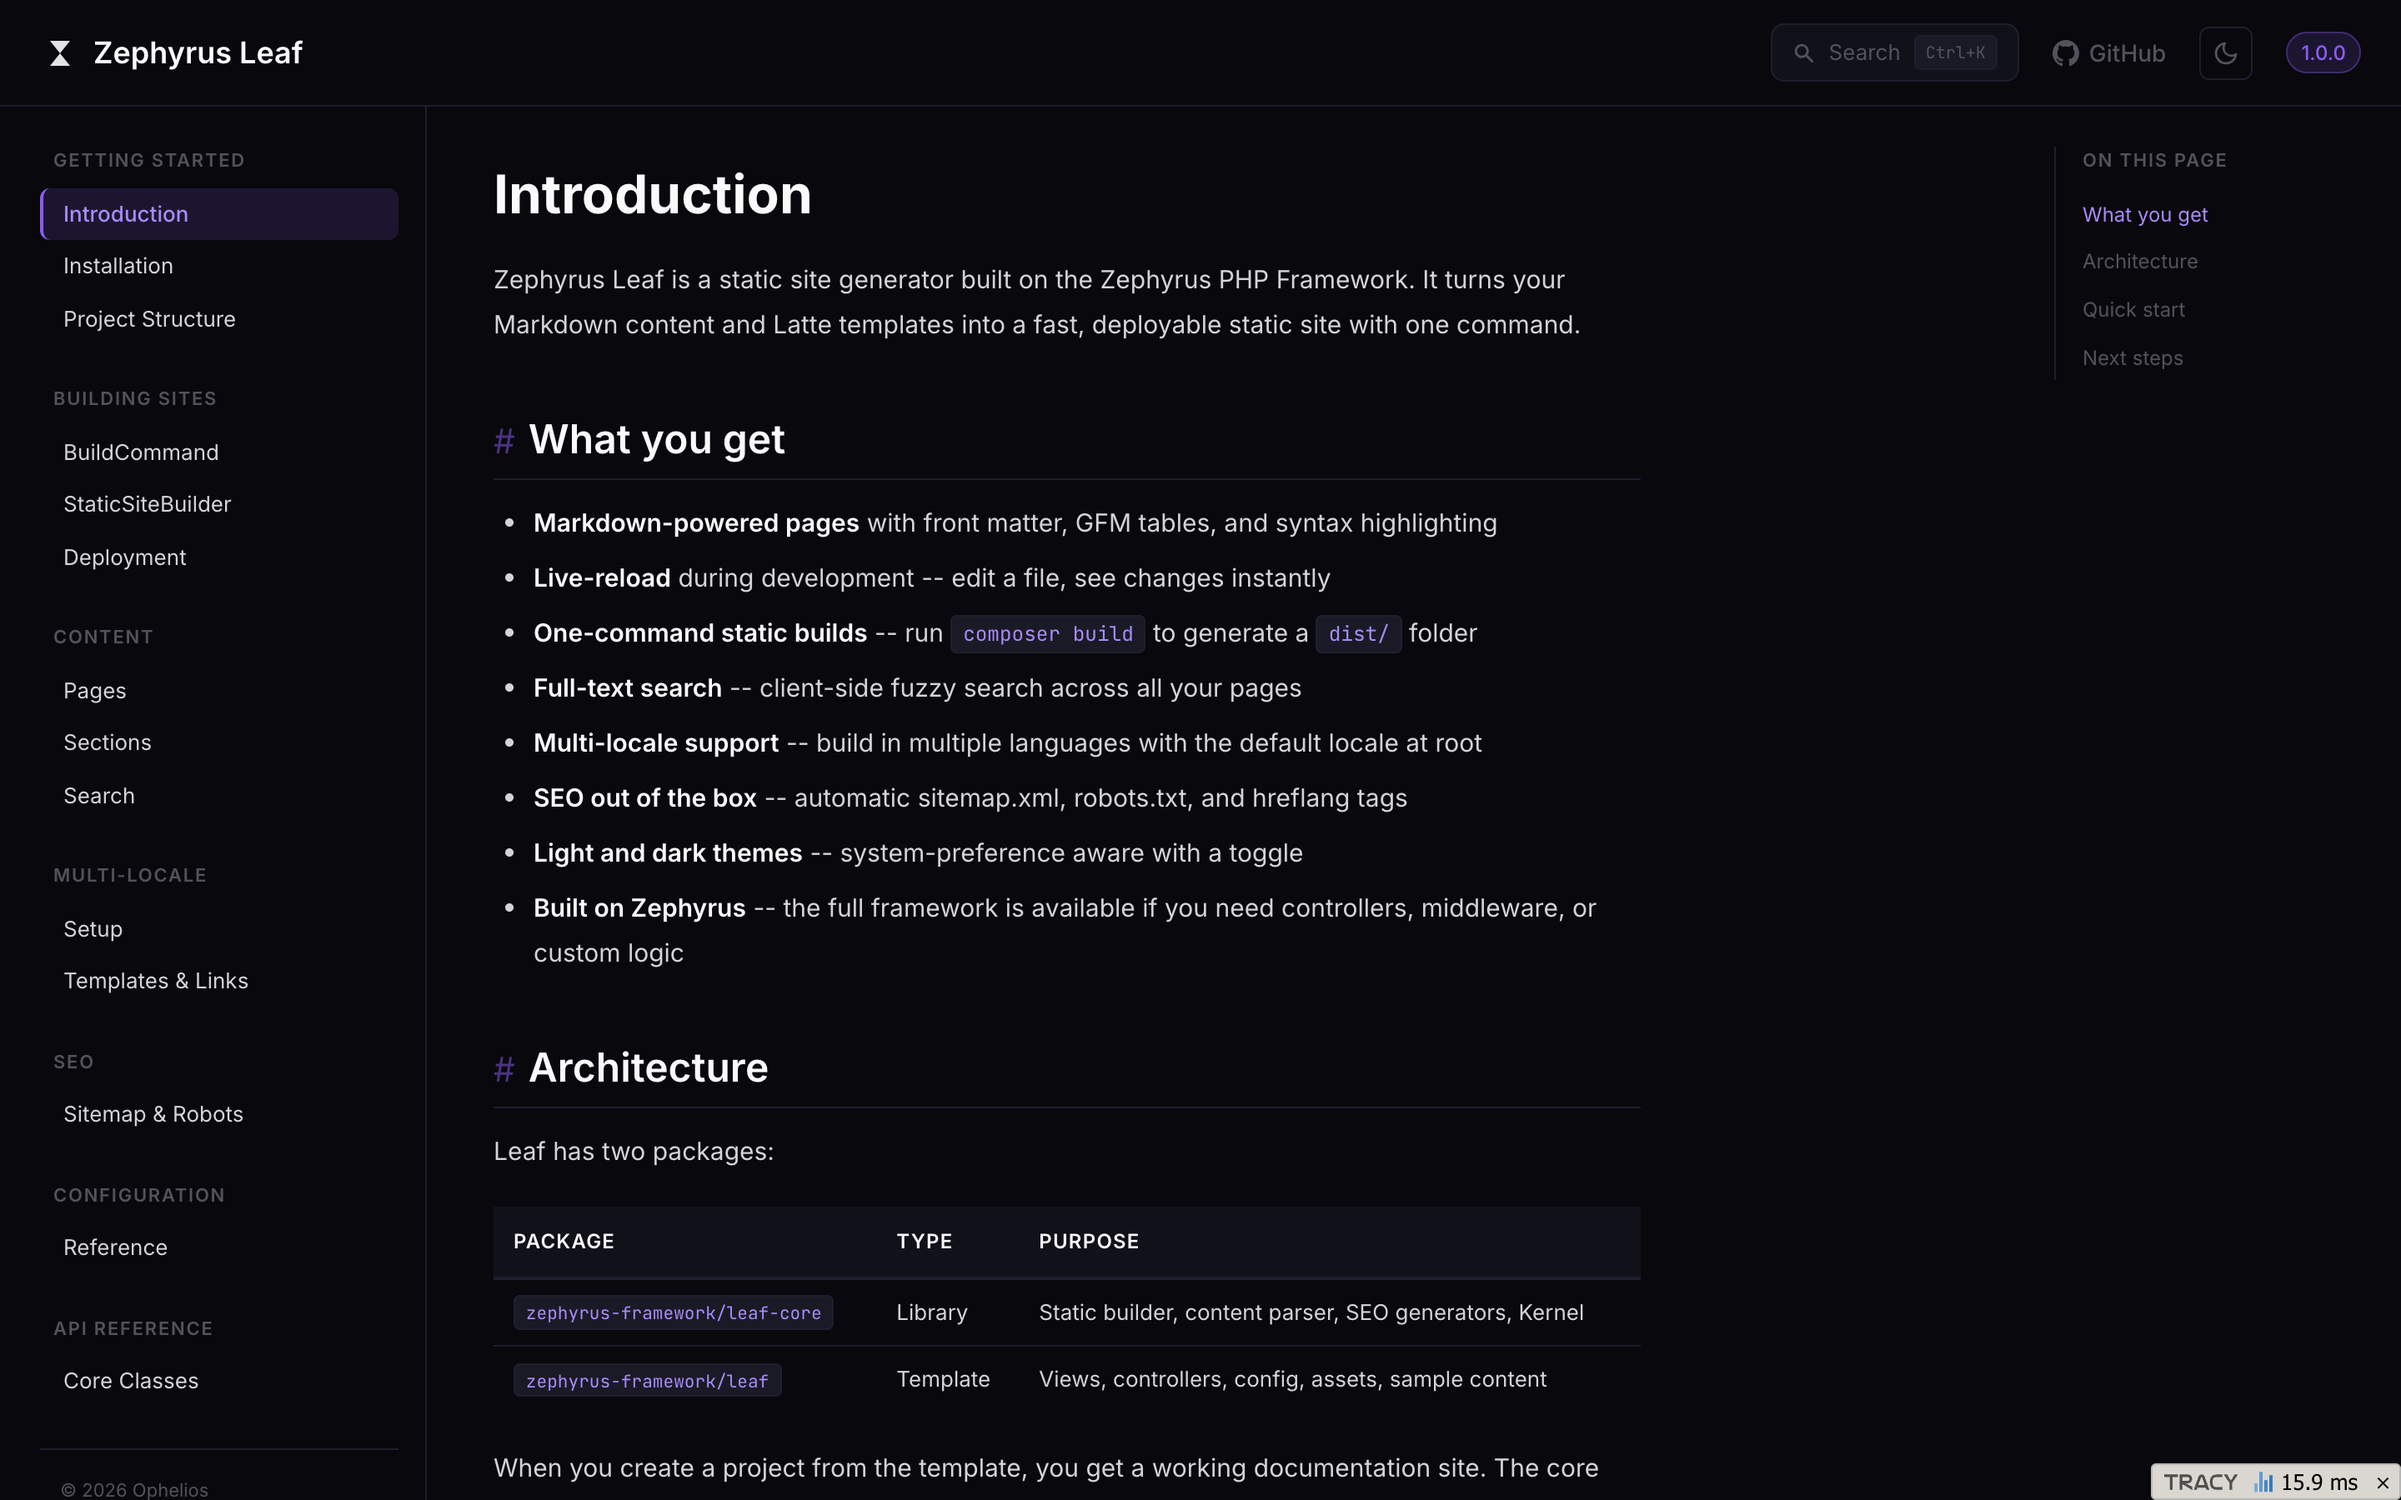
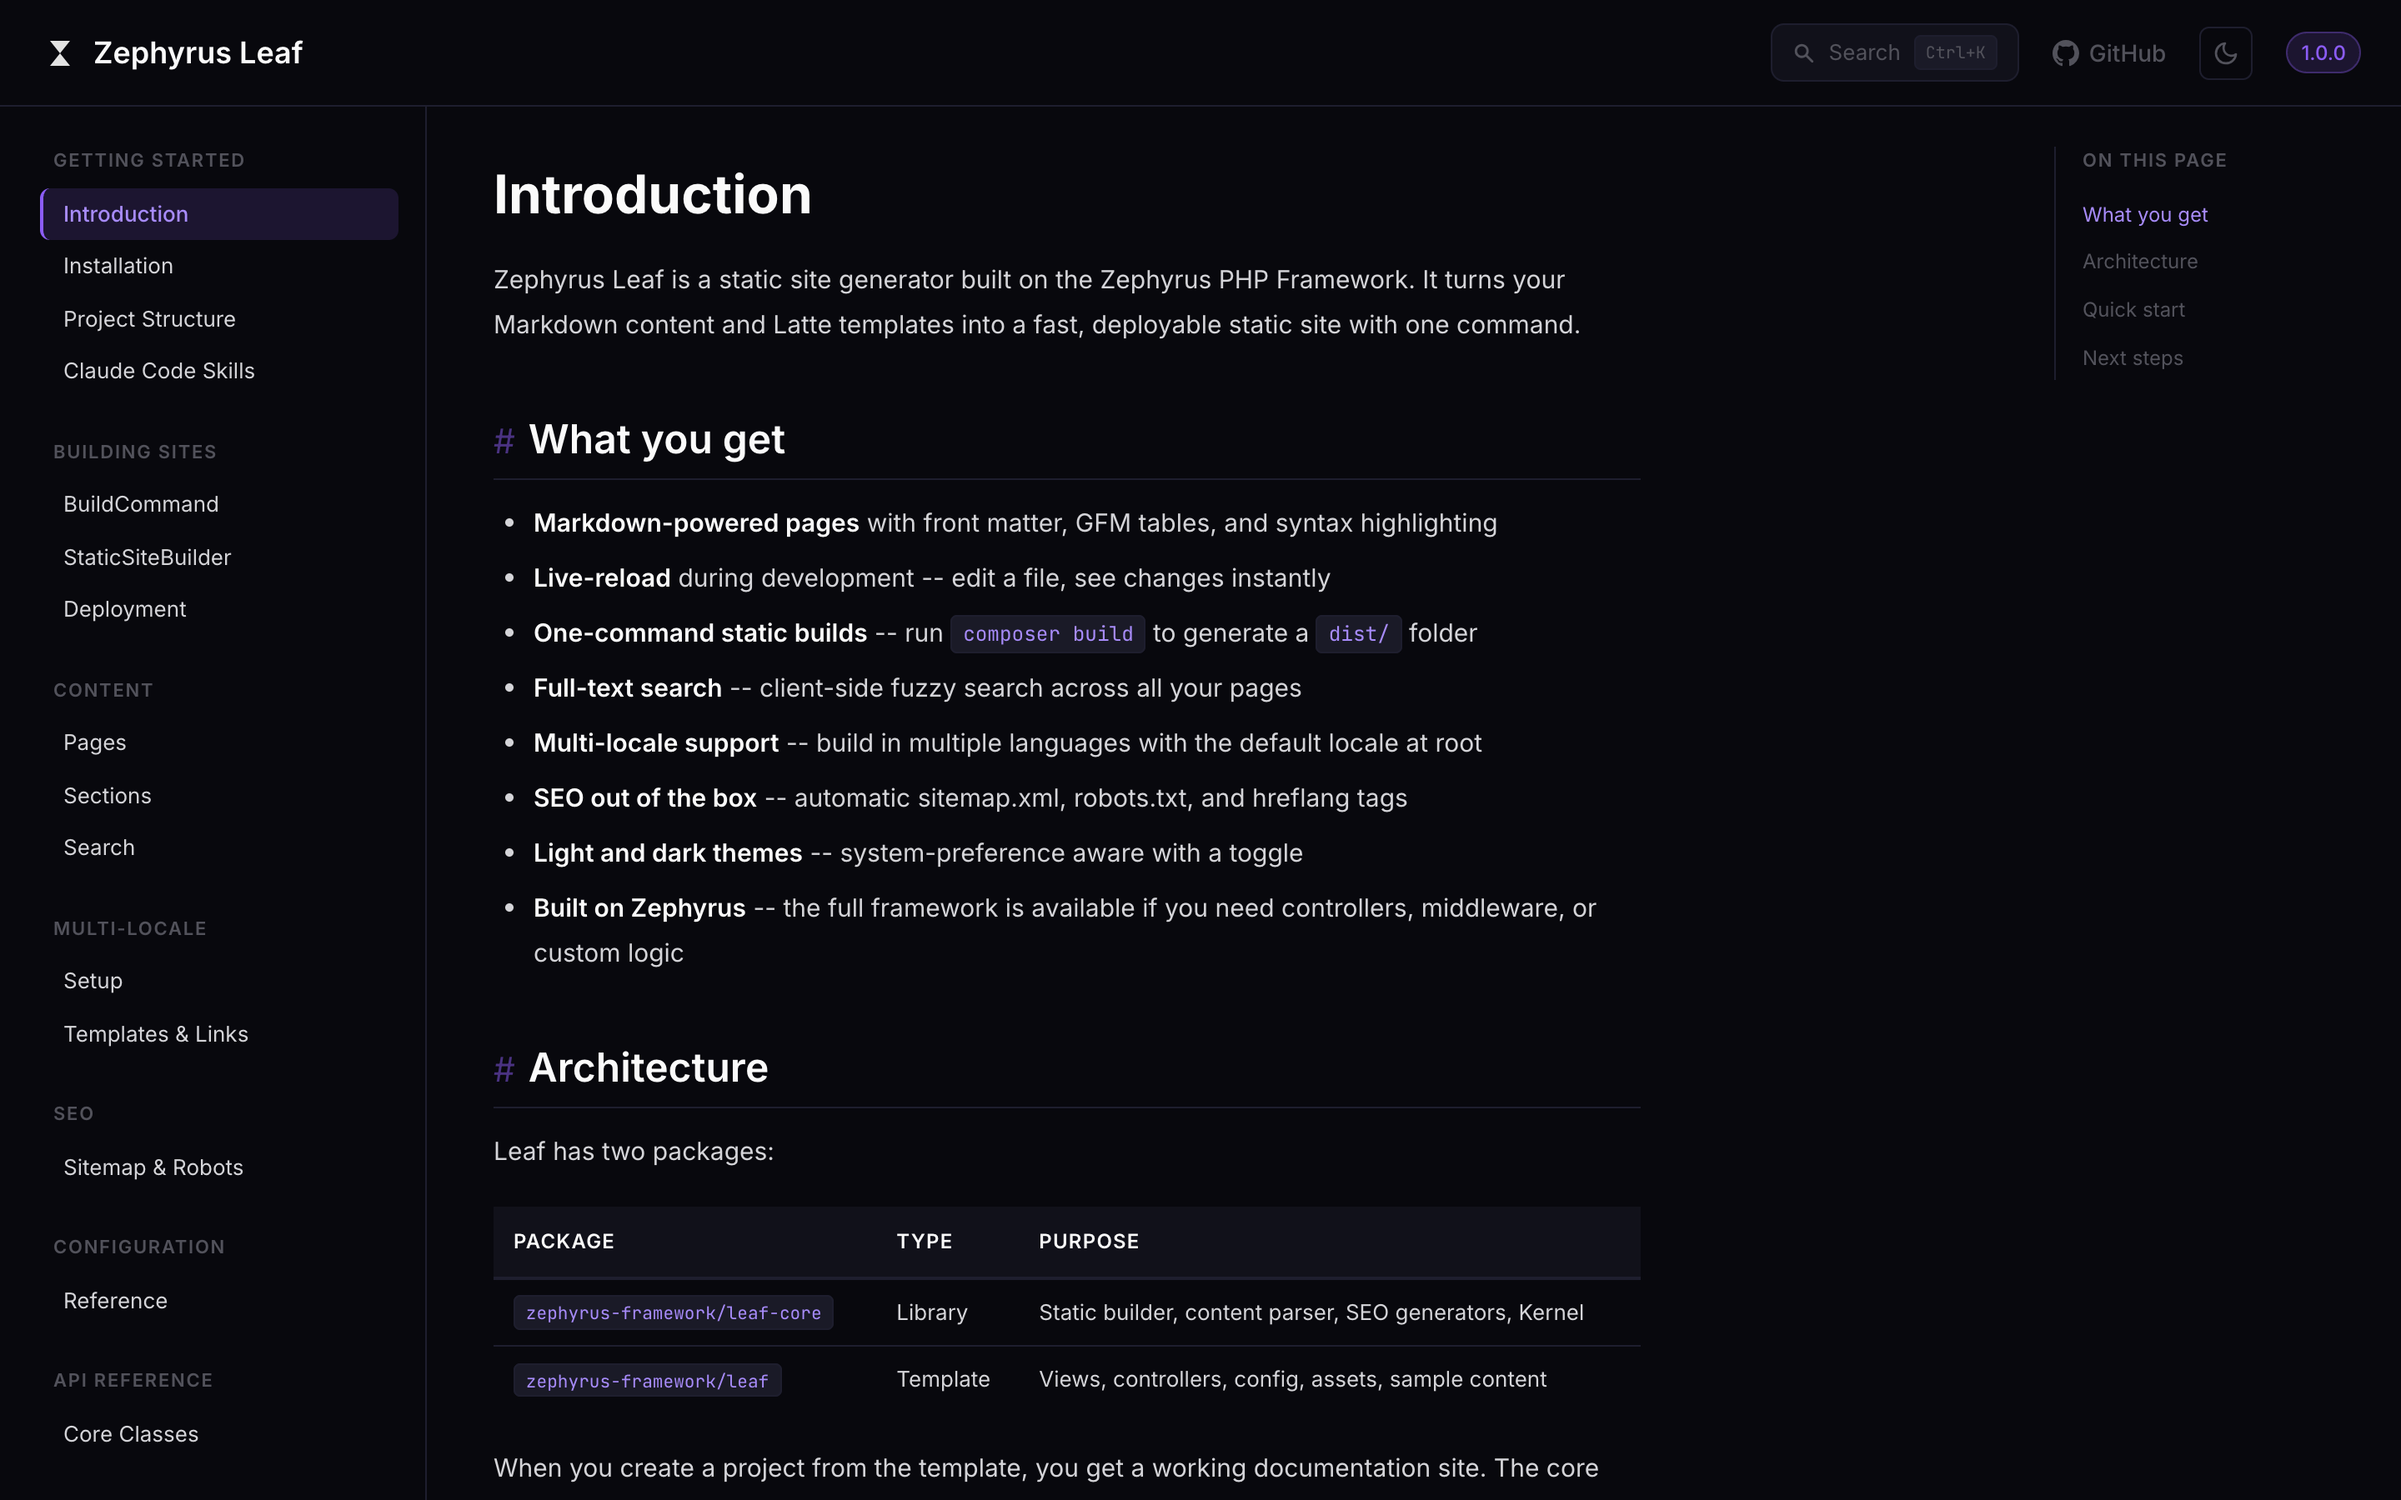
fix: hero contrast, nav island behavior, grid texture, screenshot glass border

diff --git a/public/assets/css/landing.css b/public/assets/css/landing.css
@@ -3,38 +3,48 @@
    ============================================================ */
 
 /* ── Landing Nav ─────────────────────────────────────────── */
+.landing-nav-spacer {
+    height: 4rem;
+}
+
 .landing-nav {
     position: fixed;
-    top: 1rem;
+    top: 0;
     left: 0;
     right: 0;
     z-index: 100;
-    display: flex;
-    justify-content: center;
     pointer-events: none;
+    transition: all 0.4s cubic-bezier(0.4, 0, 0.2, 1);
 }
 
 .landing-nav-inner {
     display: flex;
     align-items: center;
     gap: 1.5rem;
-    padding: 0.6rem 1.25rem;
-    background: var(--nav-bg);
-    backdrop-filter: blur(16px);
-    -webkit-backdrop-filter: blur(16px);
-    border: 1px solid var(--border);
-    border-radius: 9999px;
+    padding: 0 2rem;
+    height: 4rem;
+    max-width: 90rem;
+    margin: 0 auto;
     pointer-events: auto;
     transition: all 0.4s cubic-bezier(0.4, 0, 0.2, 1);
-    max-width: 90rem;
+}
+
+/* Scrolled: becomes floating island, left-aligned */
+.landing-nav.scrolled {
+    top: 0.75rem;
+    left: 1rem;
+    right: auto;
 }
 
 .landing-nav.scrolled .landing-nav-inner {
-    padding: 0.45rem 1rem;
-    gap: 1rem;
-    max-width: 28rem;
-    justify-content: flex-start;
+    background: var(--nav-bg);
+    backdrop-filter: blur(20px);
+    -webkit-backdrop-filter: blur(20px);
+    border: 1px solid var(--border);
     border-radius: 9999px;
+    padding: 0.4rem 0.5rem 0.4rem 1rem;
+    gap: 0.75rem;
+    height: auto;
 }
 
 .landing-nav-brand {
@@ -53,23 +63,29 @@
     display: flex;
     align-items: center;
     gap: 1.25rem;
-    transition: all 0.3s ease;
+    transition: opacity 0.3s ease, max-width 0.3s ease;
+    overflow: hidden;
 }
 
 .landing-nav-links a {
-    color: var(--text-muted);
+    color: var(--text-bright);
     font-size: 0.8125rem;
     font-weight: 500;
     text-decoration: none;
     transition: color 0.15s ease;
     white-space: nowrap;
+    opacity: 0.7;
 }
 .landing-nav-links a:hover {
-    color: var(--text-bright);
+    opacity: 1;
 }
 
-.landing-nav.scrolled .landing-nav-links {
-    display: none;
+.landing-nav.scrolled .landing-nav-links a {
+    color: var(--text-muted);
+    opacity: 1;
+}
+.landing-nav.scrolled .landing-nav-links a:hover {
+    color: var(--text-bright);
 }
 
 .landing-nav-right {
@@ -97,10 +113,6 @@
     color: #fff;
 }
 
-.landing-nav.scrolled .landing-nav-cta {
-    display: none;
-}
-
 /* ── Hero ────────────────────────────────────────────────── */
 .hero-section {
     position: relative;
@@ -109,7 +121,7 @@
     flex-direction: column;
     align-items: center;
     justify-content: flex-start;
-    padding-top: 8rem;
+    padding-top: 6rem;
     overflow: hidden;
 }
 
@@ -139,19 +151,36 @@
     :root:not([data-theme="light"]) .hero-img-dark { opacity: 1; }
 }
 
+/* Grid texture overlay */
+.hero-grid {
+    position: absolute;
+    inset: 0;
+    z-index: 1;
+    background:
+        repeating-linear-gradient(0deg, rgba(255,255,255,0.03) 0px, rgba(255,255,255,0.03) 1px, transparent 1px, transparent 60px),
+        repeating-linear-gradient(90deg, rgba(255,255,255,0.03) 0px, rgba(255,255,255,0.03) 1px, transparent 1px, transparent 60px);
+    pointer-events: none;
+}
+
+[data-theme="light"] .hero-grid {
+    background:
+        repeating-linear-gradient(0deg, rgba(0,0,0,0.03) 0px, rgba(0,0,0,0.03) 1px, transparent 1px, transparent 60px),
+        repeating-linear-gradient(90deg, rgba(0,0,0,0.03) 0px, rgba(0,0,0,0.03) 1px, transparent 1px, transparent 60px);
+}
+
 .hero-fade {
     position: absolute;
     bottom: 0;
     left: 0;
     right: 0;
-    height: 60%;
+    height: 65%;
     background: linear-gradient(to bottom, transparent 0%, var(--bg-deep) 100%);
-    z-index: 1;
+    z-index: 2;
 }
 
 .hero-content {
     position: relative;
-    z-index: 2;
+    z-index: 3;
     text-align: center;
     max-width: 48rem;
     padding: 0 1.5rem;
@@ -161,34 +190,59 @@
 .hero-badge {
     display: inline-block;
     padding: 0.3rem 0.85rem;
-    background: var(--accent-glow);
-    border: 1px solid var(--border-accent);
+    background: rgba(139, 92, 246, 0.2);
+    backdrop-filter: blur(8px);
+    -webkit-backdrop-filter: blur(8px);
+    border: 1px solid rgba(139, 92, 246, 0.3);
     border-radius: 9999px;
     font-size: 0.75rem;
-    font-weight: 500;
-    color: var(--accent);
+    font-weight: 600;
+    color: var(--text-bright);
     letter-spacing: 0.03em;
     margin-bottom: 1.5rem;
 }
 
 .hero-title {
     font-family: var(--font-body);
-    font-size: clamp(2.5rem, 6vw, 4.5rem);
+    font-size: clamp(2.75rem, 7vw, 5rem);
     font-weight: 800;
-    line-height: 1.08;
+    line-height: 1.05;
     letter-spacing: -0.03em;
-    color: var(--text-bright);
+    color: #fff;
     margin: 0 0 1.25rem;
+    text-shadow: 0 2px 20px rgba(0,0,0,0.3);
+}
+
+[data-theme="light"] .hero-title {
+    color: #18181b;
+    text-shadow: 0 1px 10px rgba(255,255,255,0.4);
 }
 
 .hero-subtitle {
     font-size: 1.1rem;
-    color: var(--text-muted);
+    color: rgba(255,255,255,0.8);
     line-height: 1.7;
     margin: 0 0 2rem;
     max-width: 36rem;
     margin-left: auto;
     margin-right: auto;
+    text-shadow: 0 1px 8px rgba(0,0,0,0.3);
+}
+
+[data-theme="light"] .hero-subtitle {
+    color: rgba(0,0,0,0.65);
+    text-shadow: none;
+}
+
+@media (prefers-color-scheme: light) {
+    :root:not([data-theme="dark"]) .hero-title {
+        color: #18181b;
+        text-shadow: 0 1px 10px rgba(255,255,255,0.4);
+    }
+    :root:not([data-theme="dark"]) .hero-subtitle {
+        color: rgba(0,0,0,0.65);
+        text-shadow: none;
+    }
 }
 
 .hero-actions {
@@ -214,29 +268,47 @@
 .hero-btn-primary {
     background: var(--accent);
     color: #fff;
+    box-shadow: 0 4px 15px rgba(139, 92, 246, 0.3);
 }
 .hero-btn-primary:hover {
     background: var(--accent-light);
     color: #fff;
     transform: translateY(-1px);
+    box-shadow: 0 6px 20px rgba(139, 92, 246, 0.4);
 }
 
 .hero-install {
     display: inline-flex;
     align-items: center;
     padding: 0.55rem 1rem;
-    background: var(--bg-surface);
-    border: 1px solid var(--border);
+    background: rgba(0,0,0,0.3);
+    backdrop-filter: blur(8px);
+    -webkit-backdrop-filter: blur(8px);
+    border: 1px solid rgba(255,255,255,0.15);
     border-radius: 0.5rem;
     font-family: var(--font-mono);
     font-size: 0.8125rem;
-    color: var(--text);
+    color: rgba(255,255,255,0.9);
 }
 
-/* Screenshot */
+[data-theme="light"] .hero-install {
+    background: rgba(255,255,255,0.5);
+    border-color: rgba(0,0,0,0.1);
+    color: rgba(0,0,0,0.7);
+}
+
+@media (prefers-color-scheme: light) {
+    :root:not([data-theme="dark"]) .hero-install {
+        background: rgba(255,255,255,0.5);
+        border-color: rgba(0,0,0,0.1);
+        color: rgba(0,0,0,0.7);
+    }
+}
+
+/* Screenshot - frosted glass border like Mintlify */
 .hero-screenshot-wrap {
     position: relative;
-    z-index: 2;
+    z-index: 3;
     max-width: 56rem;
     margin: 3rem auto 0;
     padding: 0 1.5rem;
@@ -247,8 +319,35 @@
     position: relative;
     border-radius: 0.75rem;
     overflow: hidden;
-    border: 1px solid var(--border);
-    box-shadow: 0 25px 60px rgba(0, 0, 0, 0.3);
+    border: 1px solid rgba(255,255,255,0.15);
+    box-shadow:
+        0 0 0 1px rgba(255,255,255,0.05),
+        0 25px 60px rgba(0, 0, 0, 0.4),
+        0 0 40px rgba(139, 92, 246, 0.08);
+    background: rgba(255,255,255,0.05);
+    padding: 4px;
+    backdrop-filter: blur(2px);
+    -webkit-backdrop-filter: blur(2px);
+}
+
+[data-theme="light"] .hero-screenshot {
+    border-color: rgba(0,0,0,0.08);
+    box-shadow:
+        0 0 0 1px rgba(0,0,0,0.03),
+        0 25px 60px rgba(0, 0, 0, 0.15),
+        0 0 40px rgba(139, 92, 246, 0.05);
+    background: rgba(255,255,255,0.4);
+}
+
+@media (prefers-color-scheme: light) {
+    :root:not([data-theme="dark"]) .hero-screenshot {
+        border-color: rgba(0,0,0,0.08);
+        box-shadow:
+            0 0 0 1px rgba(0,0,0,0.03),
+            0 25px 60px rgba(0, 0, 0, 0.15),
+            0 0 40px rgba(139, 92, 246, 0.05);
+        background: rgba(255,255,255,0.4);
+    }
 }
 
 .hero-screenshot img {
@@ -256,17 +355,18 @@
     width: 100%;
     height: auto;
     transition: opacity 0.5s ease;
+    border-radius: 0.5rem;
 }
 
 .hero-ss-light { opacity: 1; position: relative; }
-.hero-ss-dark { opacity: 0; position: absolute; inset: 0; }
+.hero-ss-dark { opacity: 0; position: absolute; inset: 4px; }
 
 [data-theme="dark"] .hero-ss-light { opacity: 0; }
 [data-theme="dark"] .hero-ss-dark { opacity: 1; position: relative; }
-[data-theme="dark"] .hero-ss-light { position: absolute; inset: 0; }
+[data-theme="dark"] .hero-ss-light { position: absolute; inset: 4px; }
 
 @media (prefers-color-scheme: dark) {
-    :root:not([data-theme="light"]) .hero-ss-light { opacity: 0; position: absolute; inset: 0; }
+    :root:not([data-theme="light"]) .hero-ss-light { opacity: 0; position: absolute; inset: 4px; }
     :root:not([data-theme="light"]) .hero-ss-dark { opacity: 1; position: relative; }
 }
 
@@ -518,33 +618,27 @@
 
 /* ── Mobile ──────────────────────────────────────────────── */
 @media (max-width: 768px) {
-    .landing-nav-inner {
-        gap: 0.75rem;
-        padding: 0.5rem 1rem;
-    }
-
     .landing-nav-links {
         display: none;
+    }
+
+    .landing-nav.scrolled {
+        left: 0;
+        right: 0;
+        top: 0.5rem;
+        padding: 0 0.75rem;
     }
 
     .landing-nav.scrolled .landing-nav-inner {
         max-width: none;
     }
 
-    .landing-nav-cta {
-        display: inline-flex;
-    }
-
-    .landing-nav.scrolled .landing-nav-cta {
-        display: inline-flex;
-    }
-
     .hero-section {
-        padding-top: 6rem;
+        padding-top: 5rem;
     }
 
     .hero-title {
-        font-size: 2.25rem;
+        font-size: 2.5rem;
     }
 
     .hero-subtitle {
